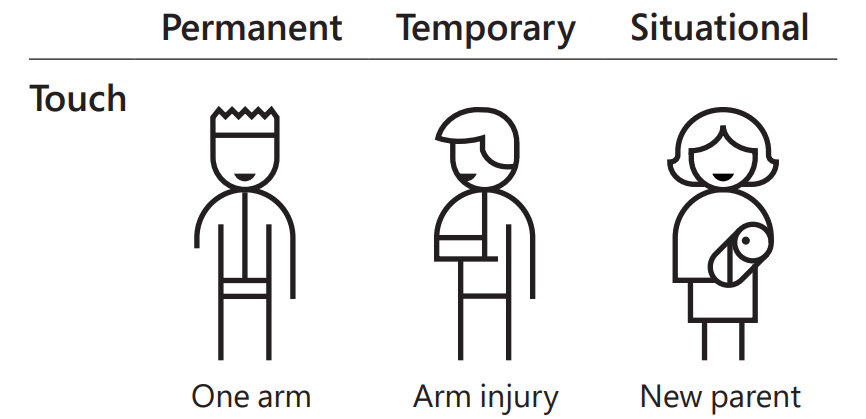
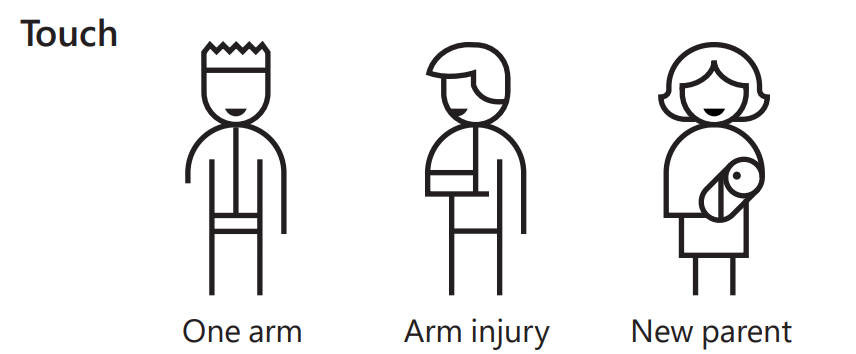
add 3 inclusive immages

diff --git a/a11y.html b/a11y.html
@@ -267,7 +267,11 @@
 
             <a name="dys"></a>
             <h2>Dyslexia</h2>
+            <p><a href="https://www.opendyslexic.org/" target="_blank" rel="noopener"><strong>OpenDyslexic</strong></a></p>
+            <p><a href="https://www.readandspell.com/us/best-font-for-dyslexia" target="_blank" rel="noopener"><strong>What’s the best dyslexia font?</strong></a></p>
+            <p><a href="https://www.dyslexia-reading-well.com/dyslexia-font.html" target="_blank" rel="noopener"><strong>Dyslexia Font and Style Guide</strong></a></p>
             <p><a href="https://www.dyslexiefont.com/en/typeface/" target="_blank" rel="noopener"><strong>Dyslexia type face</strong></a></p>
+            
             <p><a href="assets/images/a11y/dyslexia.png" target="_blank" rel="noopener"><img class ="img-one-quarter-width" src="assets/images/a11y/dyslexia.png"/></a></p>
             <p><a href="#" class="button">top</a></p>
             <hr>
@@ -502,7 +506,11 @@
             <p><a href="https://uxdesign.cc/inclusive-design-mindset-6074e457728" target="_blank" rel="noopener"><strong>Inclusive Design Thinking mindset</strong></a></p>
             <p>Inclusive design is a methodology that is about valuing a diversity of experiences and abilities in the development of a product as well as in its future use. Designers should recognize that when accessibility issues are an add-on after the product has been developed, it is actually too late.</p>
             <p>Reframing the definition of disability from a health condition or personal attribute to, “a mismatch between the needs of an individual and a product, service, social structure, culture, or environment is huge because we all experience these mismatches on a day-to-day level whether they’re permanent, temporary or situational.</p>
-            <p><a href="assets/images/ux/one-arm.png" target="_blank" rel="noopener"><img class ="img-one-third-width" src="assets/images/ux/one-arm.png"/></a></p>
+            <p>
+              <a href="assets/images/a11y/inclusive-touch1.PNG" target="_blank" rel="noopener"><img class ="img-one-third-width" src="assets/images/a11y/inclusive-touch1.PNG"/></a>
+              <a href="assets/images/a11y/inclusive-hear2.PNG" target="_blank" rel="noopener"><img class ="img-one-third-width" src="assets/images/a11y/inclusive-hear2.PNG"/></a>
+              <a href="assets/images/a11y/inclusive-speak3.PNG" target="_blank" rel="noopener"><img class ="img-one-third-width" src="assets/images/a11y/inclusive-speak3.PNG"/></a>
+            </p>
             <p><strong>Inclusive design methods are a great addition to human-centered design methodologies. </strong></p>
             <p>Learning how people adapt to the world around them means spending time understanding their experience from their perspective.<br>
             When done well, we can recognise more than just the barriers that people encounter. We also recognise the motivations that all people have in common.</p>
